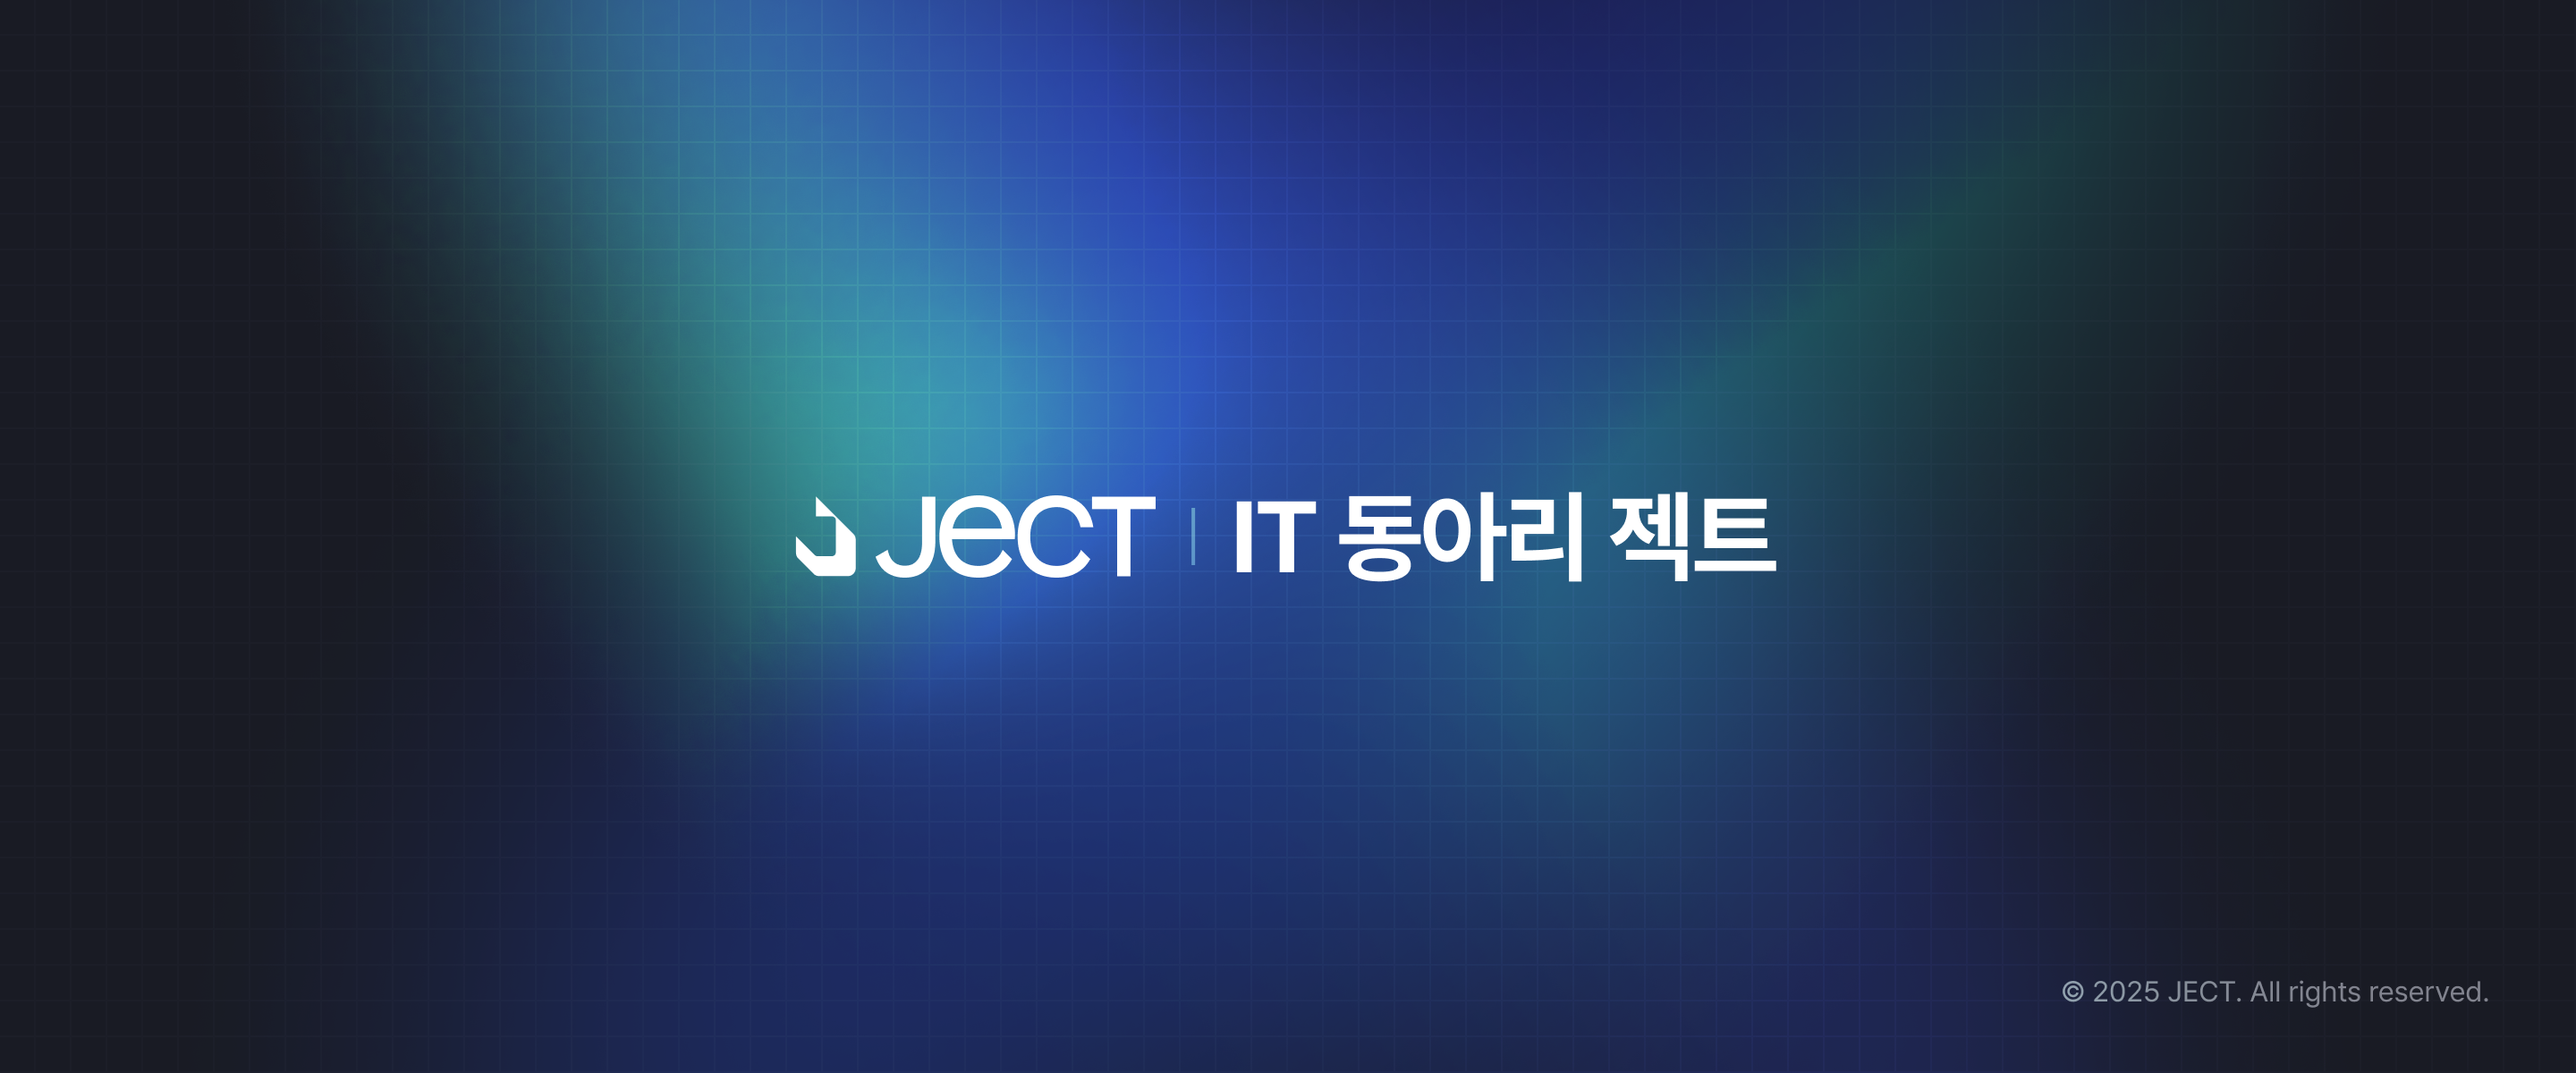
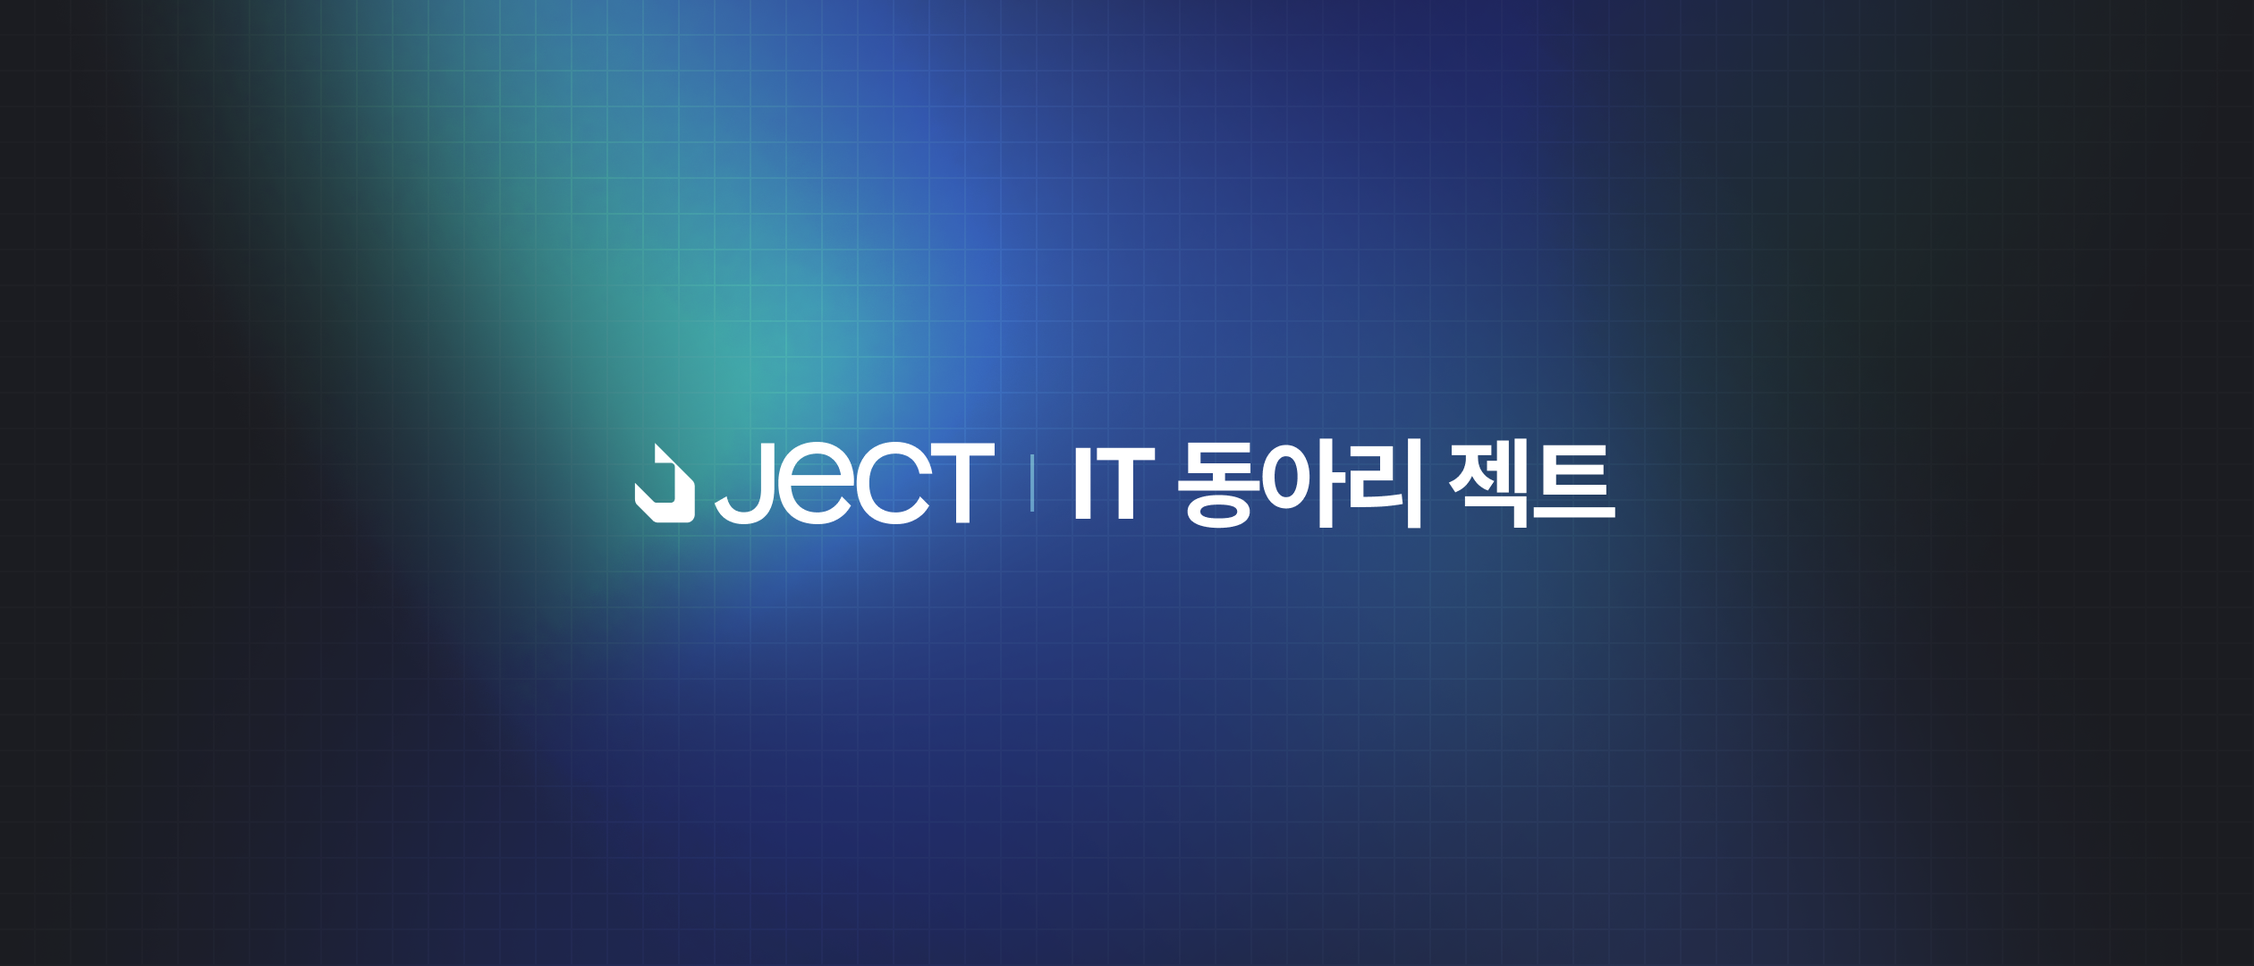
fix: 비전 배너의 저작권 문구를 이미지에서 텍스트로 분리 (#103)

diff --git a/apps/www/src/components/vision/VisionHero.tsx b/apps/www/src/components/vision/VisionHero.tsx
@@ -20,14 +20,23 @@ export function VisionHero() {
           ]}
         />
       </h1>
-      <Image
-        src={visionBannerImage}
-        alt="JECT IT 동아리 젝트 배너"
-        placeholder="blur"
-        preload
-        sizes="(min-width: 1200px) 922px, 100vw"
-        className="aspect-21/9 w-full border border-stroke-alpha-subtler object-cover"
-      />
+      <div className="@container relative">
+        <Image
+          src={visionBannerImage}
+          alt="IT 동아리 젝트 배너"
+          placeholder="blur"
+          preload
+          sizes="(min-width: 1200px) 922px, 100vw"
+          className="aspect-21/9 w-full border border-stroke-alpha-subtler object-cover"
+        />
+        {/* 시안의 배너 너비 1260px이 100cqw이므로 px 값을 12.6으로 나눠 cqw로 쓴다. */}
+        <p
+          data-theme="dark"
+          className="absolute right-[calc(167.5cqw/12.6)] bottom-[calc(34cqw/12.6)] translate-x-1/2 font-body text-[calc(15cqw/12.6)] leading-[1.6] font-body-normal whitespace-nowrap text-object-neutral select-none"
+        >
+          © {new Date().getFullYear()} JECT. All rights reserved.
+        </p>
+      </div>
     </header>
   );
 }
